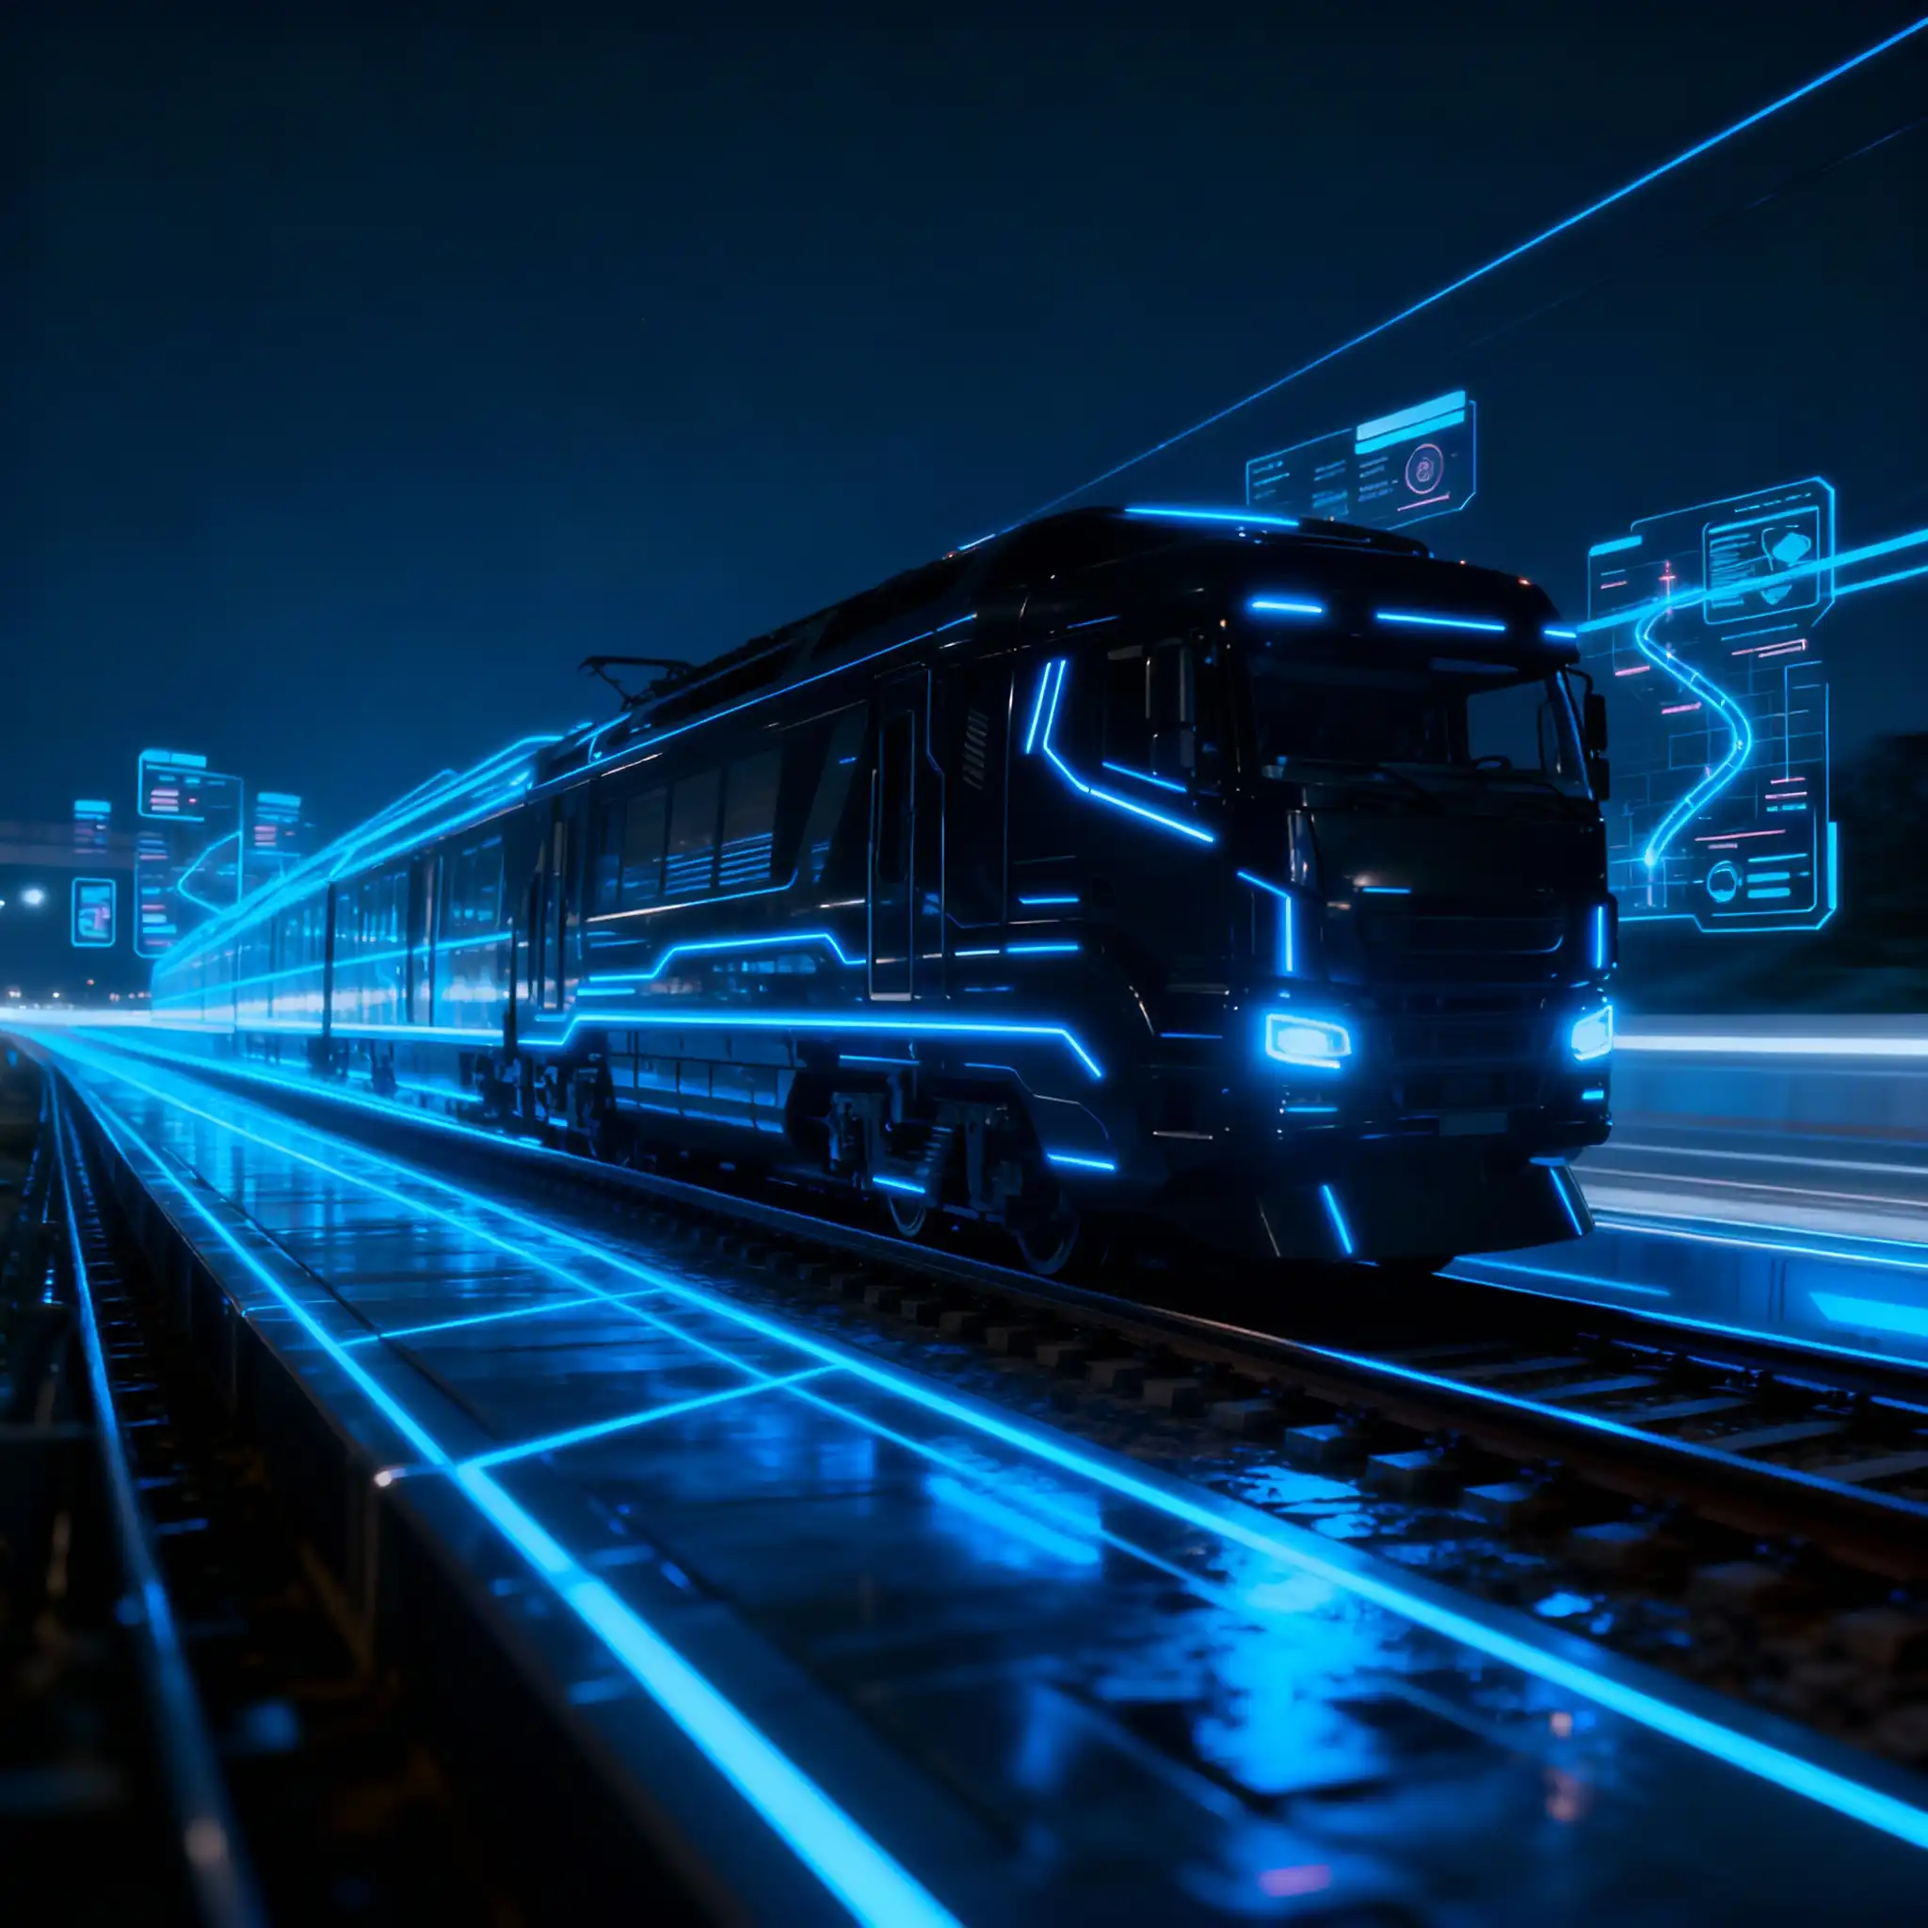
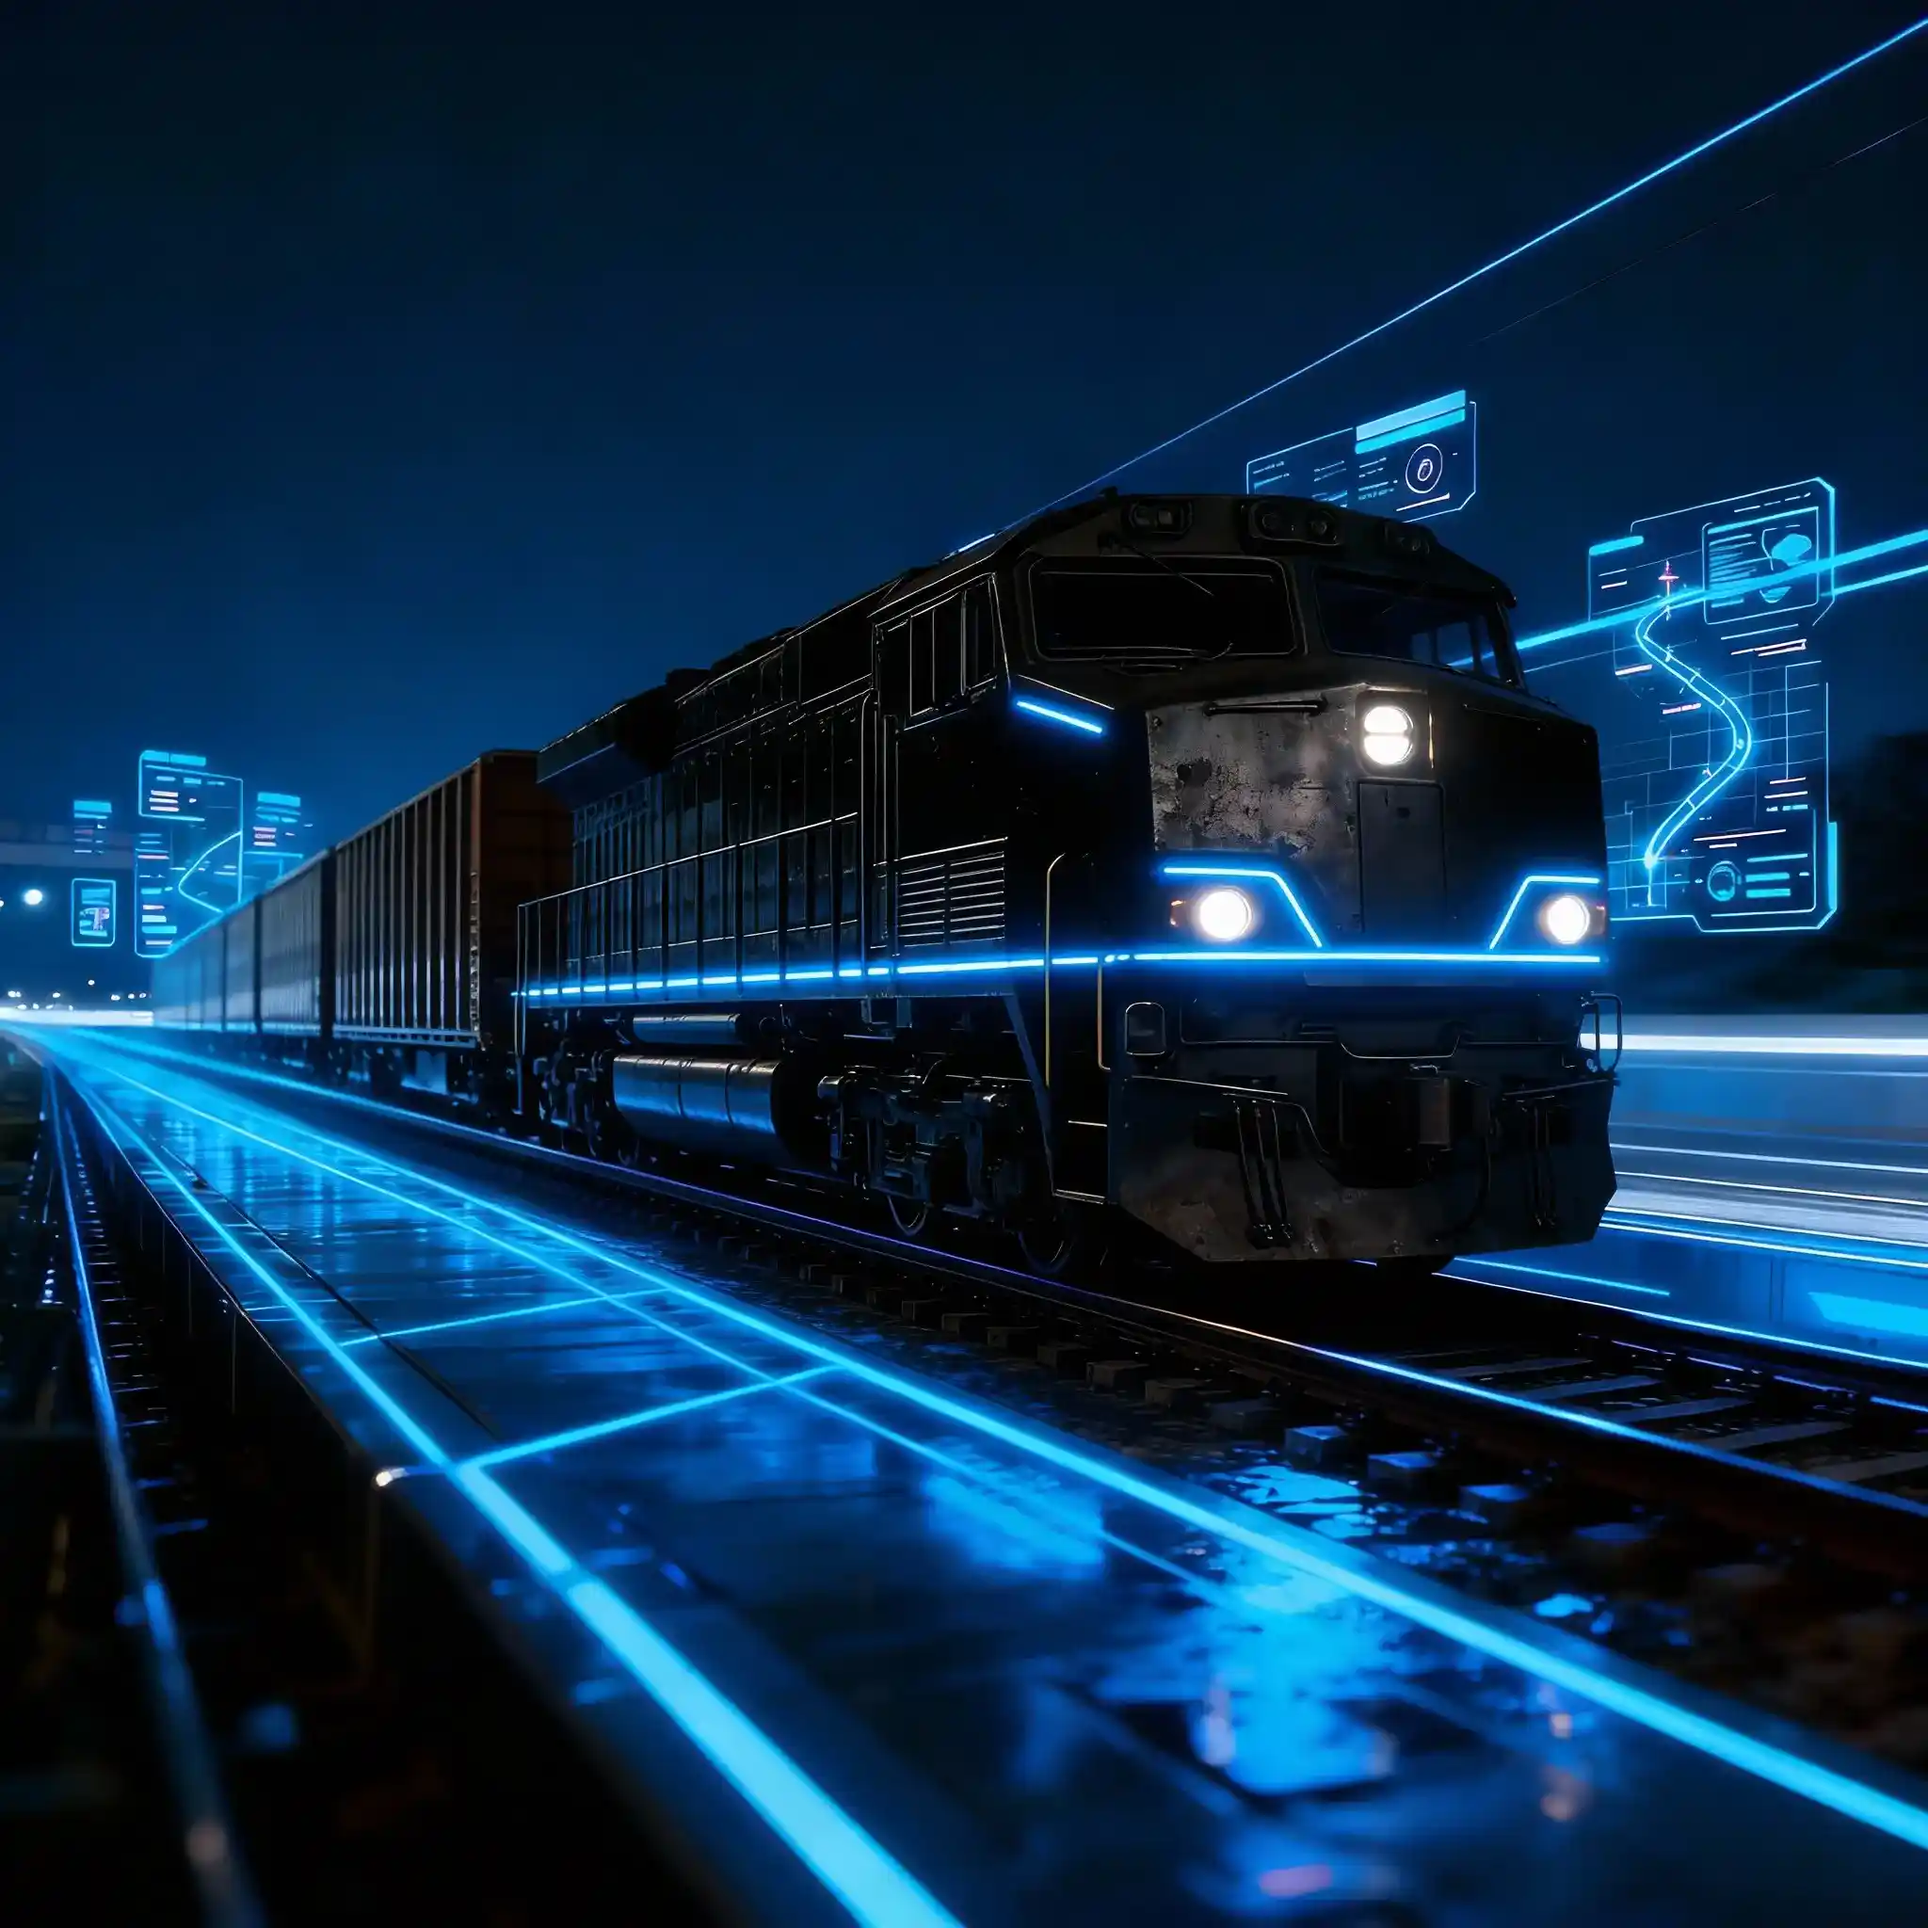
fix client orders link

diff --git a/frontend/src/app/about/components/AboutTitle.js b/frontend/src/app/about/components/AboutTitle.js
@@ -38,9 +38,9 @@ export default function AboutTitle() {
           <p key="paragraph" className="w-full sm:w-4/5 text-base md:text-lg mx-auto leading-relaxed text-gray-700 text-justify">
             در تمکو با رویکردی نو به صنعت حملونقل، پلتفرمی هوشمند و یکپارچه طراحی کردهایم که ارتباط بین <strong>شرکتهای سفارشدهنده بار</strong> و <strong>ناوگان حملونقل</strong> را بهصورت دقیق، سریع و شفاف برقرار میکند.
             ماموریت ما ایجاد هماهنگی کامل بین <strong>نیاز واقعی بازار</strong> و <strong>ظرفیت عملیاتی ناوگان</strong> است؛ تا هر سفر بیشترین بهرهوری، کمترین اتلاف زمان و بیشترین اطمینان را برای مشتری و راننده به همراه داشته باشد.
-            قلب فناوری تمکو، <strong>الگوریتم هوشمند دایونتک</strong> است؛ سیستمی که با تحلیل دادههای مسیر، وزن، نوع بار و زمان تحویل، بهترین مسیرها و دقیقترین تقسیمبندی بار را پیشنهاد میدهد. این یعنی هیچ لحظهای از چرخه حملونقل، بدون برنامه و بیاستفاده نمیماند.
+            قلب فناوری تمکو، <strong>الگوریتم هوشمند تمکو</strong> است؛ سیستمی که با تحلیل دادههای مسیر، وزن، نوع بار و زمان تحویل، بهترین مسیرها و دقیقترین تقسیمبندی بار را پیشنهاد میدهد. این یعنی هیچ لحظهای از چرخه حملونقل، بدون برنامه و بیاستفاده نمیماند.
           </p>,
-          <p key="paragraph2" className="w-full sm:w-4/5 font-bold md:text-lg mx-auto leading-relaxed text-gray-700 text-justify">تمکو پلی است میان دنیای فناوری و دنیای حملونقل — مسیری که هر لحظه هوشمندتر میشود.</p>
+          <p key="paragraph2" className="w-full sm:w-4/5 font-bold md:text-md mx-auto leading-relaxed text-gray-700 text-justify">تمکو دستیاری هوشمند در هر تصمیم لجستیکی و پلی میان دنیای فناوری و دنیای حملونقل.</p>
         ]}
       </MotionEffect>
     </MotionEffect>

diff --git a/frontend/src/app/page.js b/frontend/src/app/page.js
@@ -88,7 +88,7 @@ export default function Home() {
               ابزاری برای مدیریت حرفهای زنجیره تأمین
             </h2>
             <p className="w-4/5 text-justify">
-              نمایندگان و شرکای تجاری با اپلیکیشن تمکو میتوانند دسترسی مستقیم به درخواستها، سفارشها و گزارشهای حملونقل داشته باشند. این ابزار امکان هماهنگی سریعتر با مشتریان سازمانی و مدیریت بهینه ظرفیت را فراهم میکند.
+              شرکای تجاری با اپلیکیشن تمکو میتوانند دسترسی مستقیم به درخواستها، سفارشها و گزارشهای حملونقل داشته باشند. این ابزار امکان هماهنگی سریعتر با مشتریان سازمانی و مدیریت بهینه ظرفیت را فراهم میکند.
             </p>
           </MotionEffect>
 
@@ -103,7 +103,7 @@ export default function Home() {
 
           <MotionEffect effect="scaleSlideUp">
             <a
-              href="https://core.tmcopars.ir/panel/login"
+              href="https://order.tmcopars.ir/accounts/login"
               download
               target="_blank"
               className="bg-[#3C9BD8] text-center text-white font-bold py-3 px-25 rounded-xl 

diff --git a/frontend/src/app/services/components/ServicesTitle.js b/frontend/src/app/services/components/ServicesTitle.js
@@ -44,7 +44,7 @@ export default function ServicesTitle() {
           </h2>
 
           <h1 className="font-bold text-xl md:text-3xl leading-tight text-justify">
-            راهکارهای جامع حمل و نقل و لجستیک برای کسب و کارهای مدرن
+            دستیاری هوشمند در هر تصمیم لجستیکی
           </h1>
 
           <p className="w-full sm:w-4/5 text-base md:text-lg mx-auto leading-relaxed text-gray-700 text-justify">

diff --git a/frontend/src/components/Home/TrapezoidLayout.js b/frontend/src/components/Home/TrapezoidLayout.js
@@ -145,7 +145,7 @@ export default function TrapezoidLayout() {
                       priority
                     />
                     <h3 className="font-bold text-lg text-white">{item.title}</h3>
-                    <p className="text-sm mt-3 text-gray-300 leading-relaxed text-justify">
+                    <p className="text-sm mt-3 text-gray-300 text-start">
                       {item.description}
                     </p>
                   </div>
